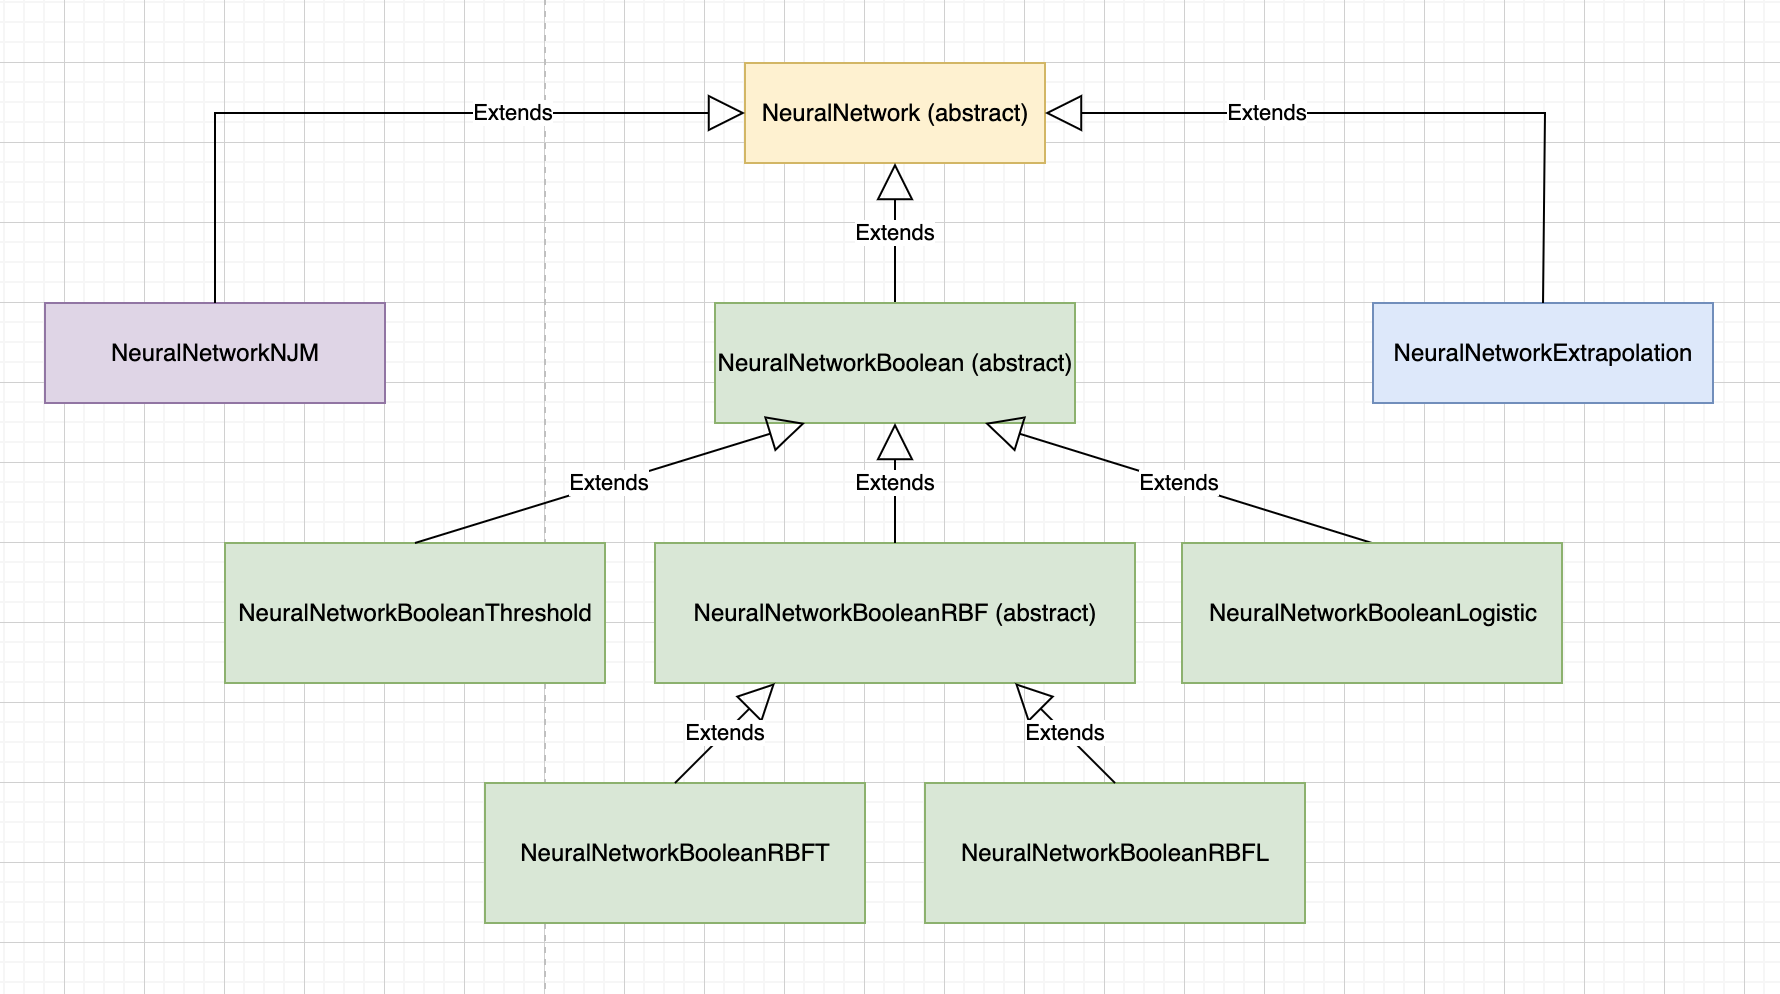
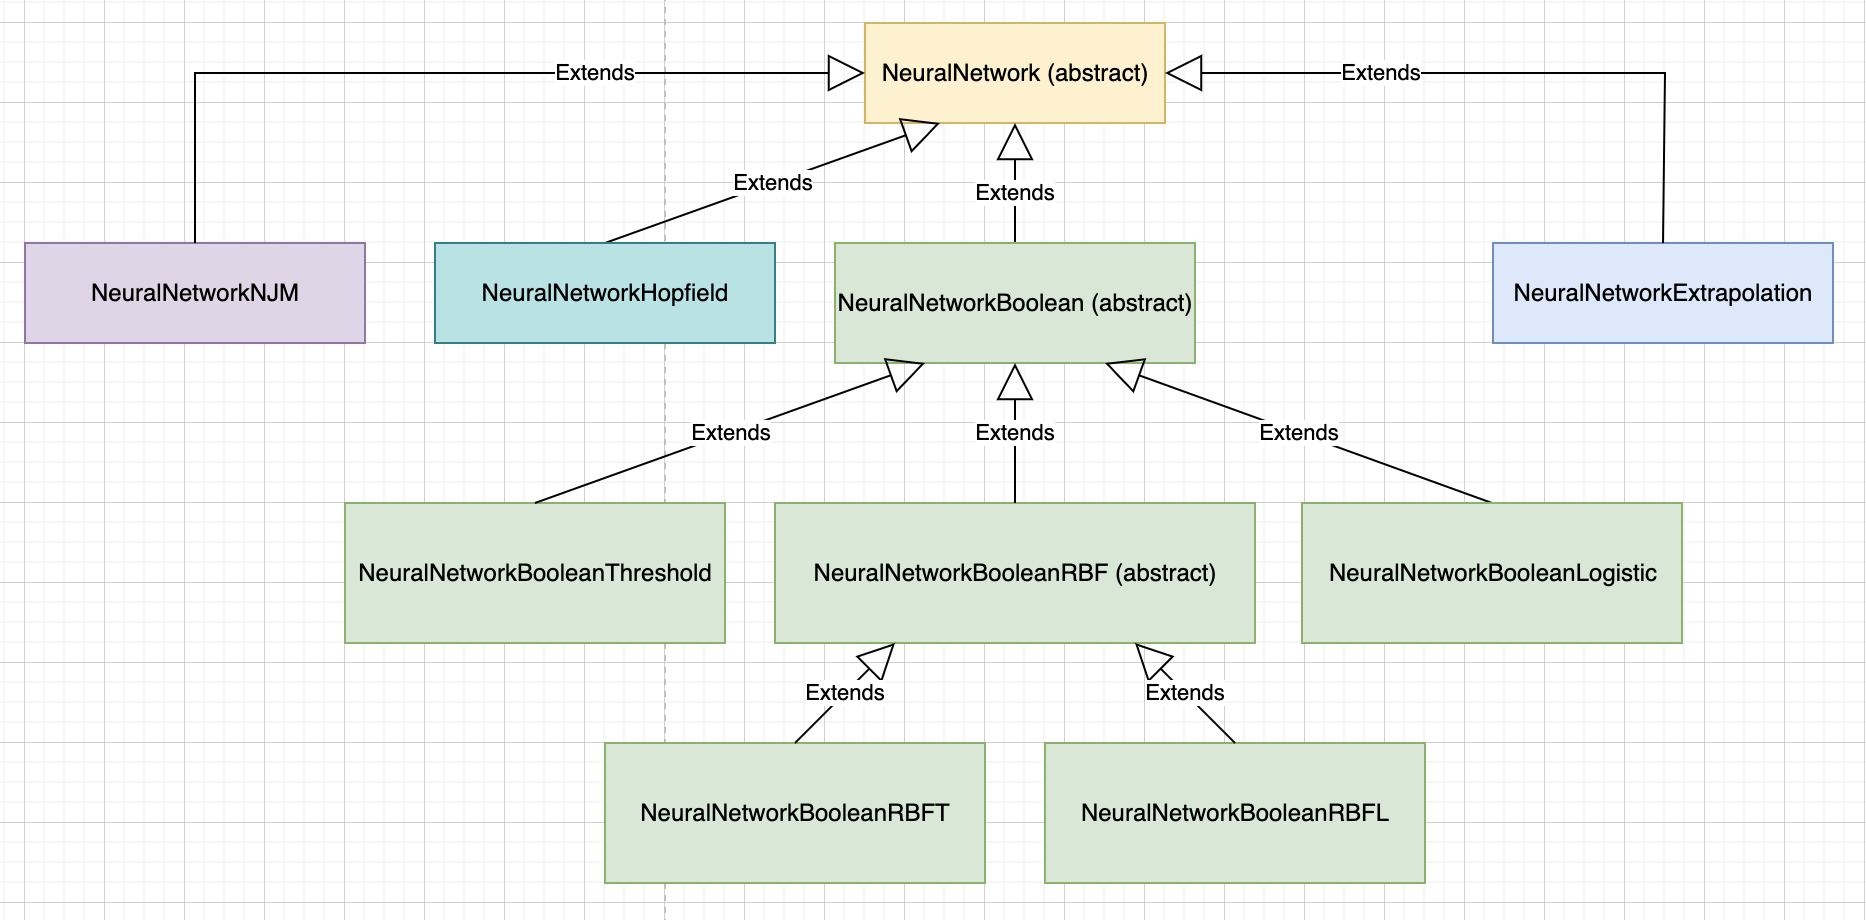
reload README.md with laboratory work #5

diff --git a/README.md b/README.md
@@ -78,3 +78,19 @@
 ![error](images/4lab_error.png)
 
 Вывод программы представлен в файле [lab_4](results/lab_4.txt)
+
+## Лабораторная работа №5 "Исследование рекуррентной нейронной сети Хопфилда на примере задачи распознавания образов"
+### Вариант №12
+
+**Цель работы** - исследовать процедуры обучения и функционирования рекуррентной нейронной сети (РНС) Хопфилда в качестве устройства автоассоциативной памяти  
+[Методическое пособие](study_guides/MetodichkaII_2017.pdf) к лабораторной работе.
+
+Образцы для обучения сети цифры "3", "5", "7" в виде бинарной картинки размера 7х5  
+![HopfieldNumber](images/HopfieldNumbers.png)
+
+Искаженные образцы для проверки правильности обучения нейронной сети  
+![HopfieldNumberCorrupted](images/HopfieldNumberCorrupted.png)
+
+Точка входа лабораторной работы [test_5](src/test/java/Lab_5.java)
+
+Результат работы программы (обучения и ответ) представлен в файле [lab_5](results/lab_5.txt)
